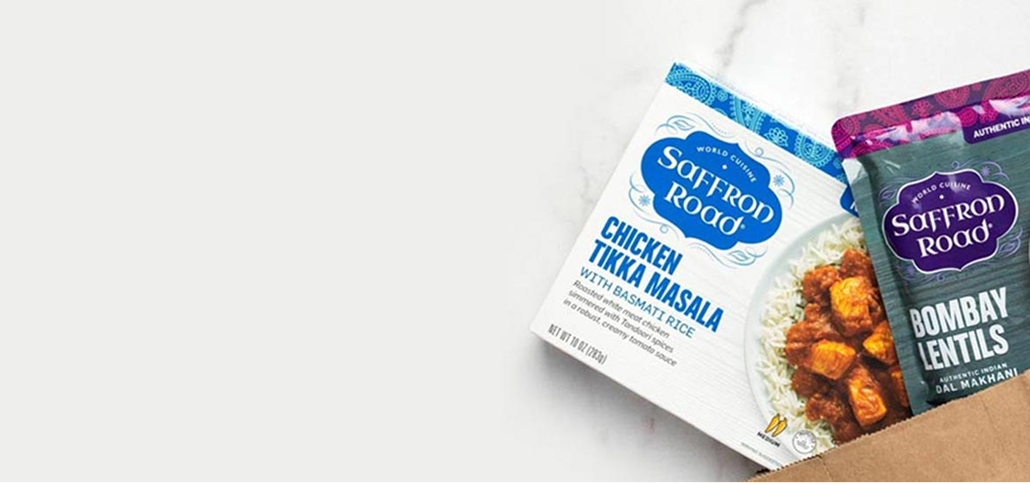
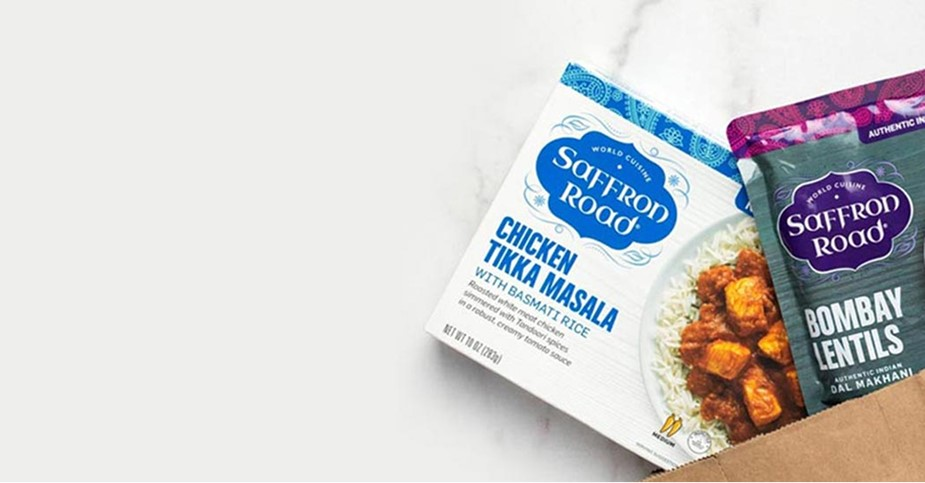
new component

Changed region(s): [[0.4541, 0.0621, 0.9989, 1.0], [0.6962, 0.0, 0.7265, 0.0311]]

diff --git a/src/components/PromoBanner.jsx b/src/components/PromoBanner.jsx
@@ -1,45 +1,51 @@
 import React from "react";
+import promoImage from "../assets/promo-banner.jpg";
 
 const PromoBanner = () => {
   return (
-    <div className="flex w-full bg-white rounded-lg shadow-md overflow-hidden">
-      {/* Left Text Box */}
-      <div className="w-1/2 border border-blue-400 p-6 flex flex-col justify-between">
+    <div className="relative w-full overflow-hidden">
+      {/* Background Image */}
+      <img
+        src={promoImage}
+        alt="Promo"
+        className="h-100 w-[100%] object-cover mx-auto"
+      />
+
+      {/* Content Overlay */}
+      <div className="absolute top-8 left-0 right-0 p-6 flex flex-col justify-between text-white">
         <div>
-          <p className="text-green-600 text-sm font-semibold mb-2">
+          <p className="text-green-700 text-sm font-semibold mb-2">
             Weekend Discount
           </p>
-          <h2 className="text-2xl font-bold text-purple-900 leading-snug mb-3">
-            Get the best quality <br /> products at the lowest prices
+          <h2 className="text-4xl text-brand font-bold leading-snug mb-3">
+            Get the best quality <br /> products at the lowest <br />
+            prices
           </h2>
-          <p className="text-gray-600 text-sm mb-4">
-            We have prepared special discounts for you on grocery products.
-            Don’t miss these opportunities…
+          <p className="text-black text-xl mb-4">
+            We have prepared special discounts for you on grocery <br />
+            products. Don’t miss these opportunities…
           </p>
         </div>
 
         {/* CTA Button + Price */}
-        <div className="flex items-center space-x-4">
-          <button className="bg-purple-700 text-white px-4 py-2 rounded-md hover:bg-purple-800">
-            Shop Now
-          </button>
-          <div className="flex items-center space-x-2">
-            <span className="text-red-600 text-xl font-bold">$27.99</span>
-            <span className="text-gray-400 line-through">$56.67</span>
+        <div className="mt-6">
+          {" "}
+          {/* 👈 added margin-top */}
+          <div className="flex items-center space-x-4">
+            <button className="bg-brand-purple text-white px-4 py-2 rounded-md hover:bg-purple-800">
+              Shop Now
+            </button>
+            <div className="flex flex-col">
+              <div className="flex items-center space-x-2">
+                <span className="text-red-600 text-xl font-bold">$27.99</span>
+                <span className="text-black line-through">$56.67</span>
+              </div>
+              <p className="text-xs text-gray-500 mt-1">
+                Don’t miss this limited time offer
+              </p>
+            </div>
           </div>
         </div>
-        <p className="text-xs text-gray-400 mt-1">
-          Don’t miss this limited time offer
-        </p>
-      </div>
-
-      {/* Right Image */}
-      <div className="w-1/2">
-        <img
-          src="/images/products-banner.png"
-          alt="Promo"
-          className="h-full w-full object-cover"
-        />
       </div>
     </div>
   );

diff --git a/src/components/LeftSidebar.jsx b/src/components/LeftSidebar.jsx
@@ -26,7 +26,7 @@ const categories = [
 
 const LeftSidebar = () => {
   return (
-    <aside className="w-64 bg-white border rounded-lg shadow-sm">
+    <aside className="w-80 bg-white border rounded-lg shadow-sm">
       <ul className="divide-y">
         {categories.map((cat, index) => (
           <li key={index} className="flex items-center justify-between px-4 py-3 cursor-pointer hover:bg-gray-50">

diff --git a/tailwind.config.js b/tailwind.config.js
@@ -7,7 +7,9 @@ export default {
   theme: {
     extend: {
       colors: {
-        "brand-purple": "rgba(99,76,159,1)",  // your custom navbar color
+        "brand-purple": "rgba(99,76,159,1)", 
+        "brand": "rgba(57, 36, 95, 1)", 
+
       },
     },
   },

diff --git a/src/pages/Home1.jsx b/src/pages/Home1.jsx
@@ -4,7 +4,7 @@ import PromoBanner from "../components/PromoBanner";
 
 const HomePage = () => {
   return (
-    <div className="flex">
+    <div className="flex gap-6">
       <LeftSidebar />
       <PromoBanner />
     </div>
